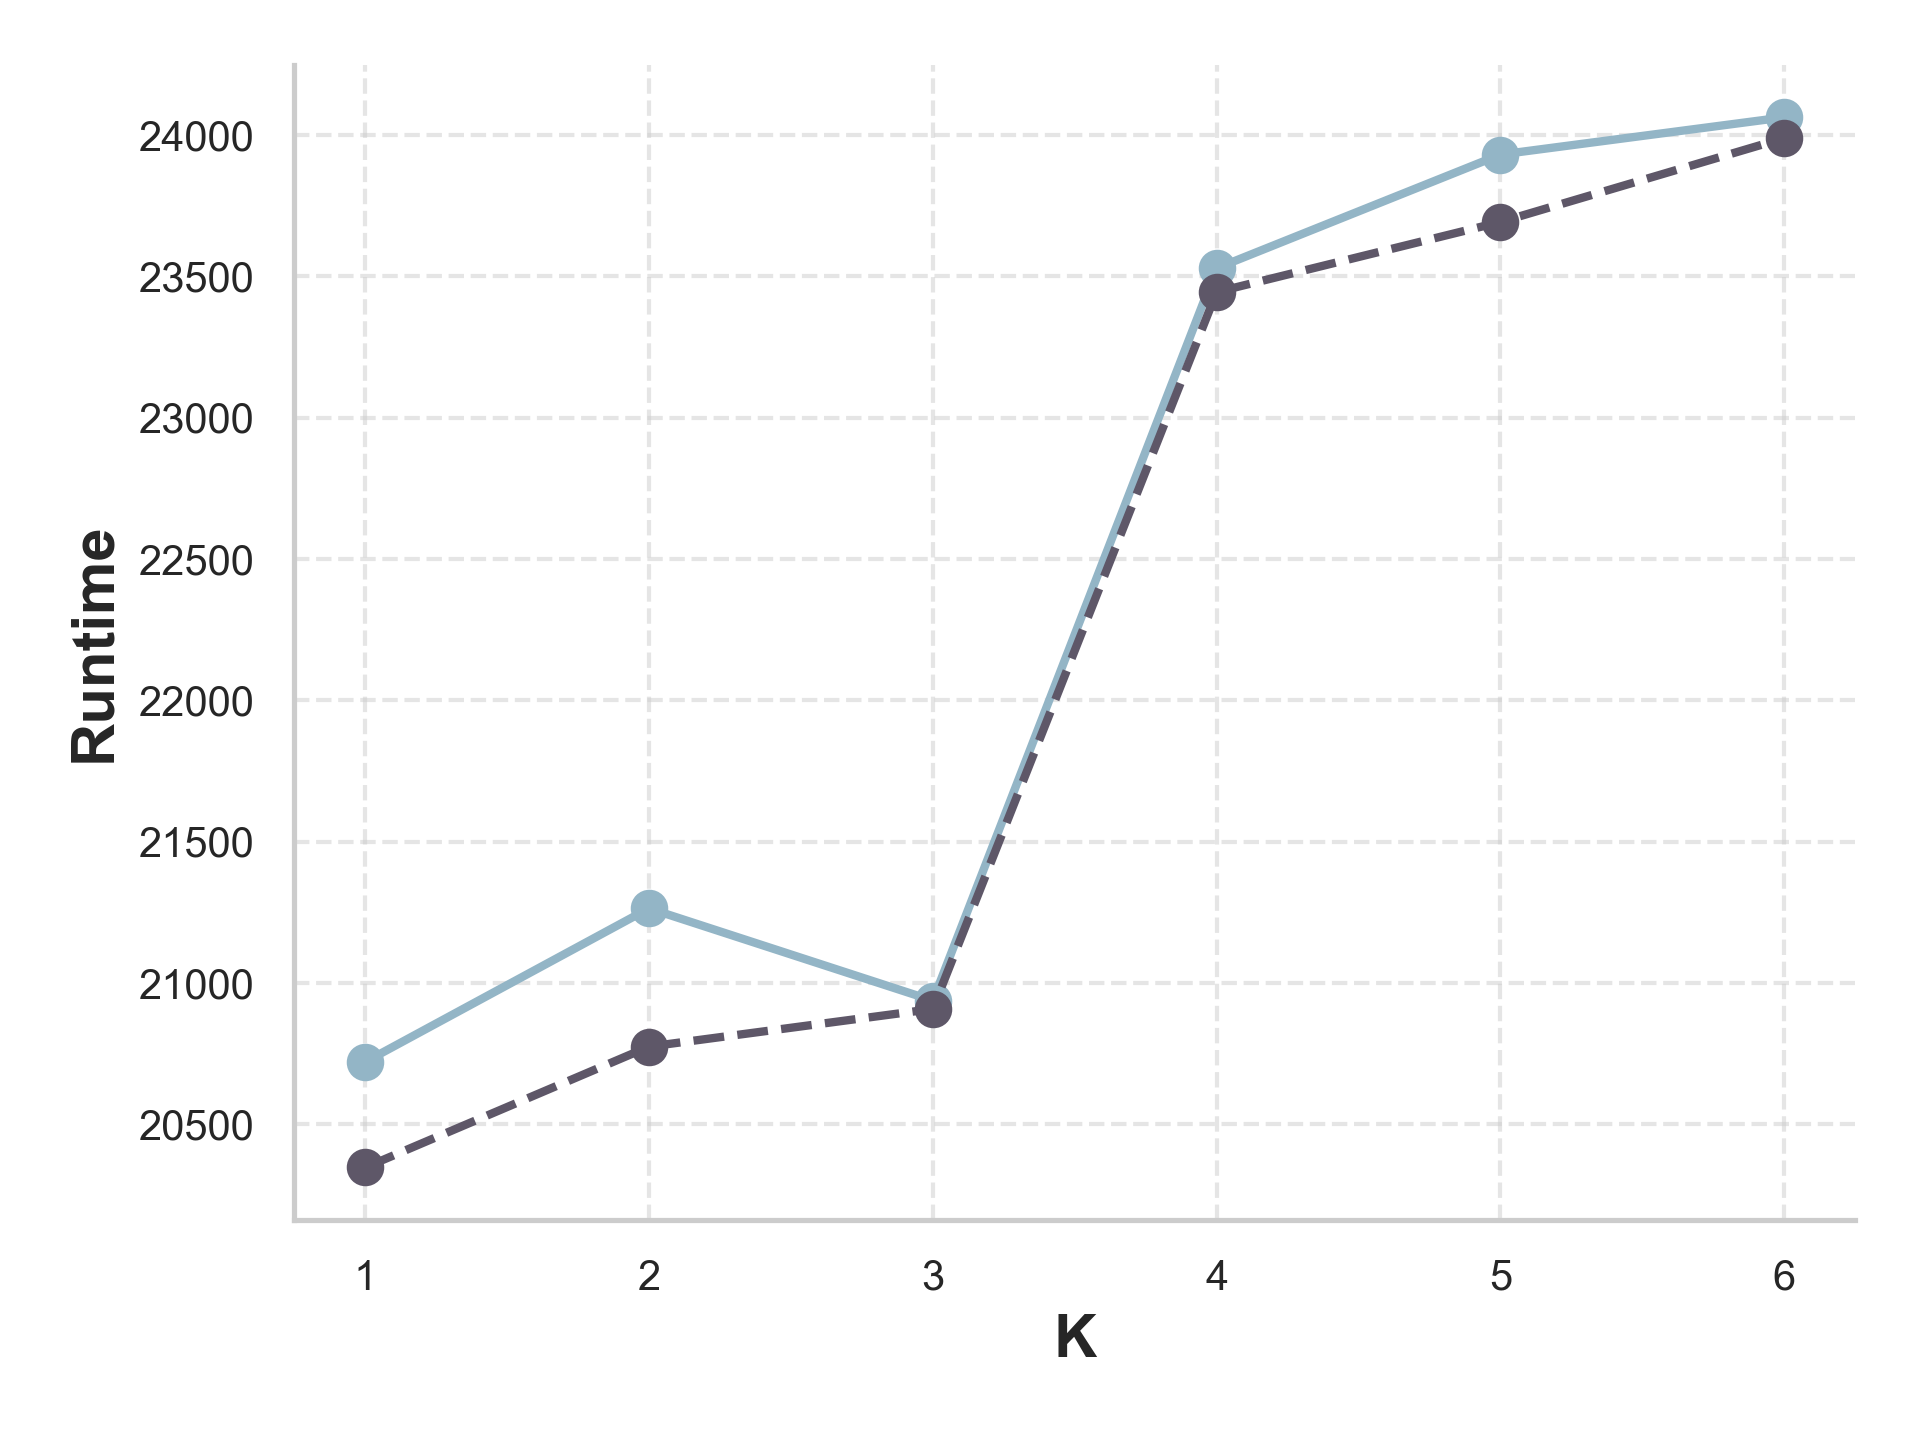
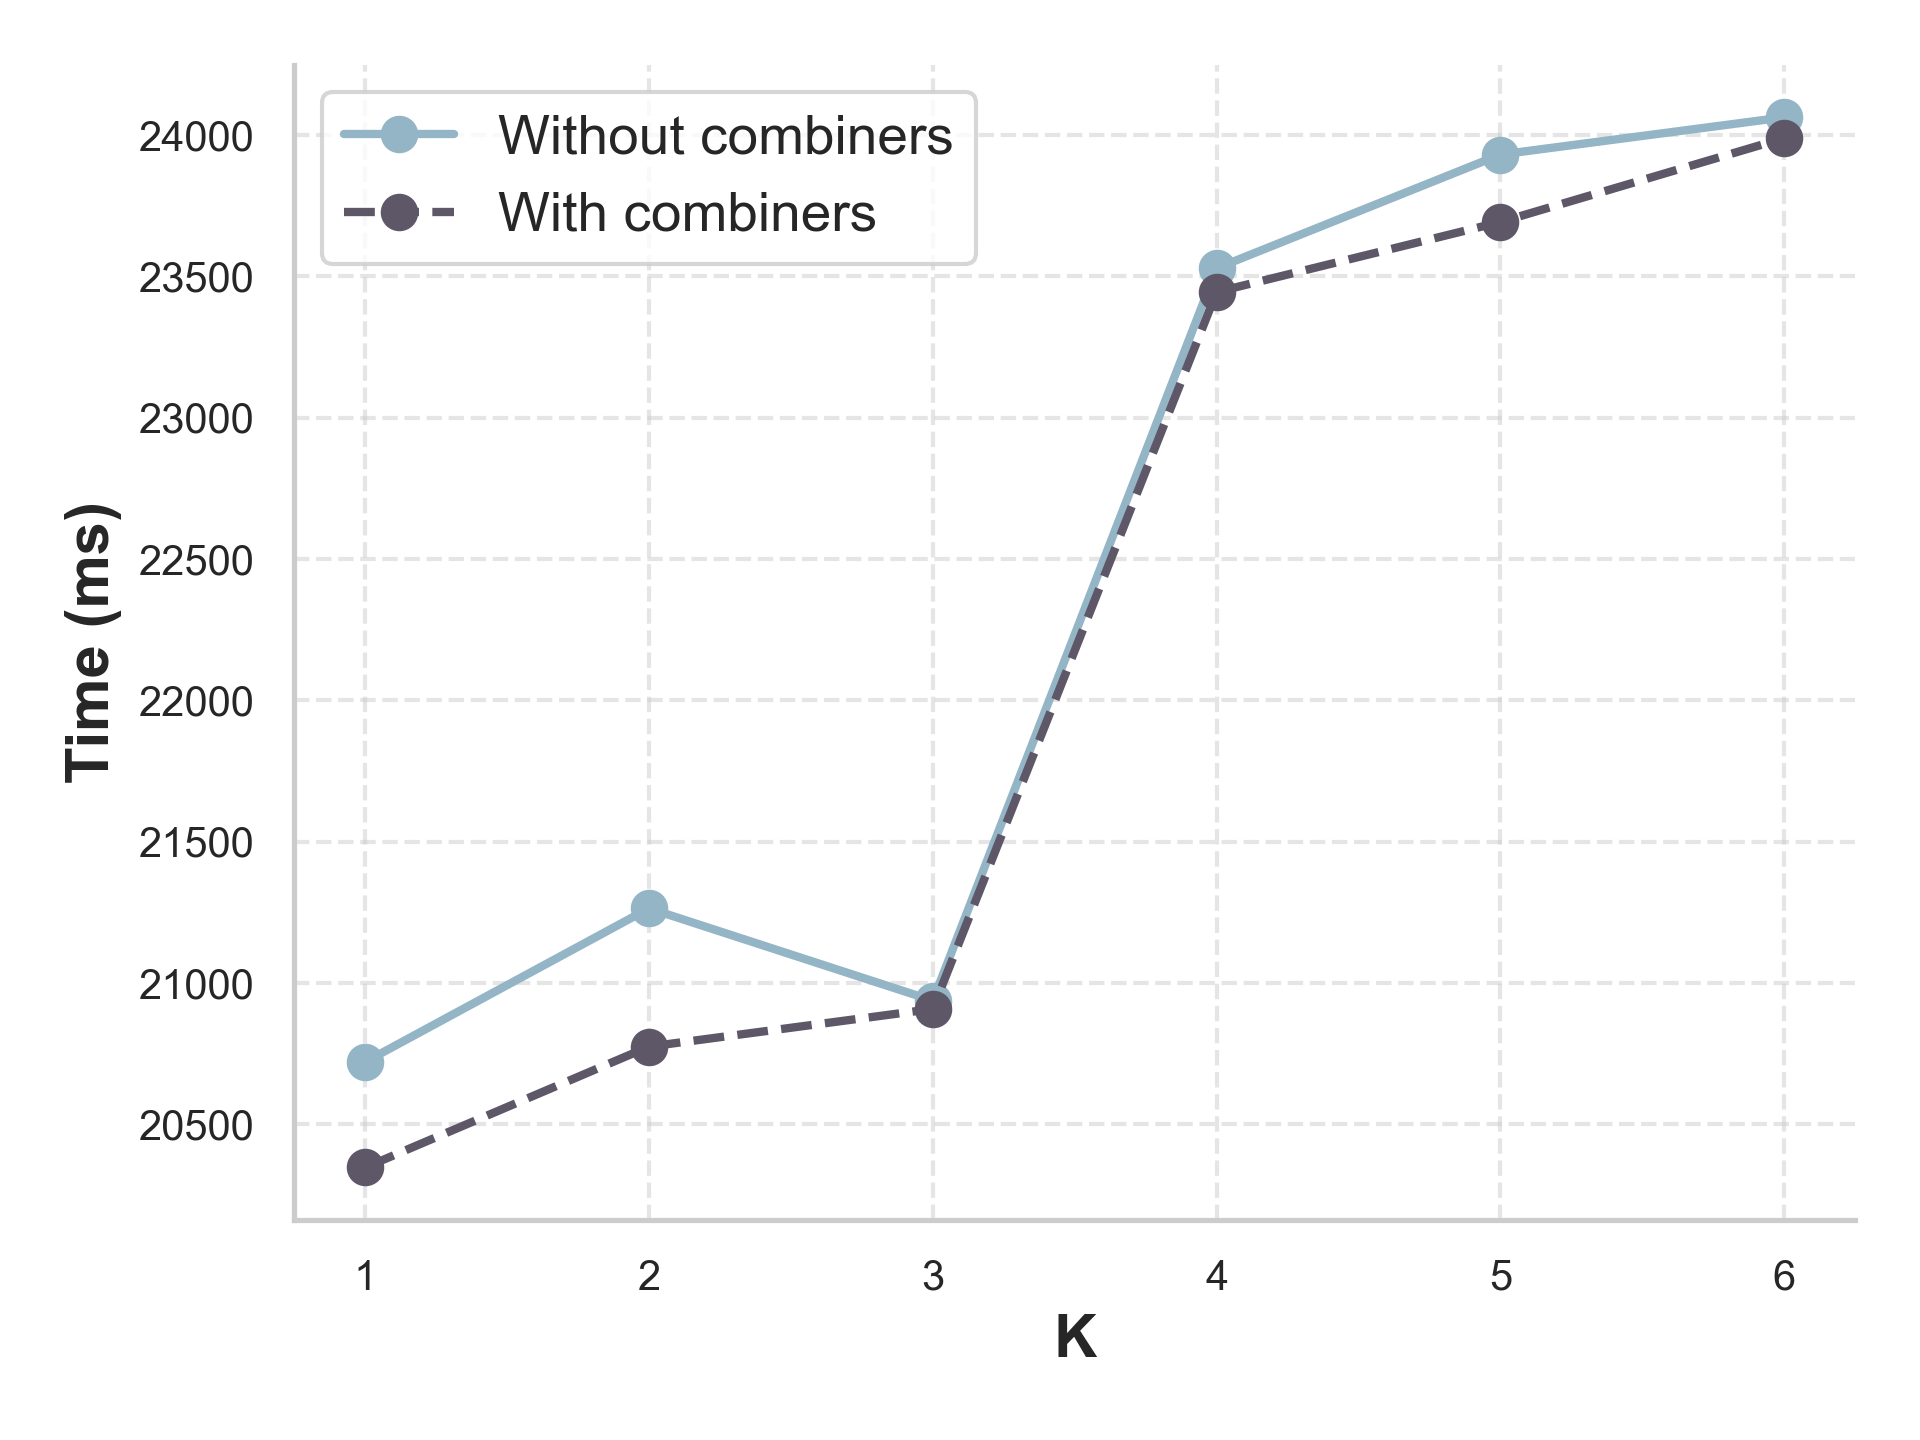
graph boston fixed

Changed region(s): [[0.1562, 0.0625, 0.5, 0.1875], [0.0312, 0.3438, 0.0625, 0.5625]]

diff --git a/compare/plot-boston.py b/compare/plot-boston.py
@@ -12,35 +12,6 @@ from sklearn.neighbors import NearestNeighbors
 import seaborn as sns
 import csv
 
-def plot_data(sizes, data, outputfile, text, x_label, y_label):
-    # Define the new color palette and symbol for centroids
-    colors = ['#93B5C6', '#5E5768', '#F0CF65', '#DB93B0', '#DD6E42', '#588157', '#54428E']
-    line_styles = ['-', '--', '-.', ':']
-
-    sns.set(style='whitegrid', font_scale=1.2)
-
-    for i, item in enumerate(data):
-        plt.plot(sizes, item, 'o', color=colors[i], linestyle=line_styles[i], linewidth=2, markersize=8)
-        plt.xscale('log')
-
-        if text is True:
-            label_padding = 0.3 
-            for i in range(len(sizes)):
-                plt.text(sizes[i], item[i] + label_padding, str(item[i]), ha='center', va='bottom', fontsize=10)
-
-    # Set labels, grid, and plot aesthetics using Seaborn
-    plt.xlabel(x_label, fontweight='bold')
-    plt.ylabel(y_label, fontweight='bold')
-    sns.despine()
-    plt.grid(True, linestyle='--', alpha=0.5)
-    plt.xticks(fontsize=10)
-    plt.yticks(fontsize=10)
-
-    # Save and show the plot
-    plt.tight_layout()
-    plt.savefig(outputfile, dpi=300)
-    plt.show()
-
 
 def get_stats(path):
     # Open the file in read mode
@@ -59,7 +30,7 @@ def get_stats(path):
 
 
 
-def plot_data(x, y, outputfile, x_label, y_label):
+def plot_data(x, y, outputfile, x_label, y_label, legend_labels):
     # Define the new color palette and symbol for centroids
     colors = ['#93B5C6', '#5E5768', '#F0CF65', '#DB93B0', '#DD6E42', '#588157', '#54428E']
     line_styles = ['-', '--', '-.', ':']
@@ -76,6 +47,10 @@ def plot_data(x, y, outputfile, x_label, y_label):
     plt.grid(True, linestyle='--', alpha=0.5)
     plt.xticks(fontsize=10)
     plt.yticks(fontsize=10)
+
+    
+    if(len(y) > 1):
+        plt.legend(legend_labels)
 
     # Save and show the plot
     plt.tight_layout()
@@ -97,23 +72,16 @@ if __name__ == '__main__':
     print(new_iterations)
     print(new_times)
     iteration_time_new = new_times / new_iterations
-    print("iteration_time_new" + str(iteration_time_new))
     iteration_time_old = old_times / old_iterations
-    print("iteration_time_old" + str(iteration_time_old))
 
     iteration_times = [iteration_time_old, iteration_time_new]
     iteration_time_percentage = (iteration_time_new - iteration_time_old) / iteration_time_old * 100
 
     time_list = [times, times_comb]
-    plot_data(k, [percentage_time], "./data/boston/boston-percentage", "K", "Percentage")
-    plot_data(k, [iteration_time_percentage], "./data/boston/boston-iteration-percentage", "K", "Percentage")
+    plot_data(k, [percentage_time], "./data/boston/boston-percentage", "K", "Percentage", [])
+    plot_data(k, [iteration_time_percentage], "./data/boston/boston-iteration-percentage", "K", "Percentage", [])
 
     iteration_time_comb = iteration_time_new.tolist()
-    times_comparison = [times_comb, iteration_time_comb]
-    plot_data(k, times_comparison, "./data/boston/boston-times", "K", "Runtime")
-    print("times_comb")
-    print(times_comb)
-    print("iteration_time_comb")
-    print(iteration_time_comb)
-    plot_data(k, iteration_times, "./data/boston/boston-iteration-times", "K", "Runtime")
+    plot_data(k, [times_comb, iteration_time_comb], "./data/boston/boston-times", "K", "Time (ms)", ["Total runtime", "Time per iteration"])
+    plot_data(k, iteration_times, "./data/boston/boston-iteration-times", "K", "Time (ms)", ["Without combiners", "With combiners"])
  
